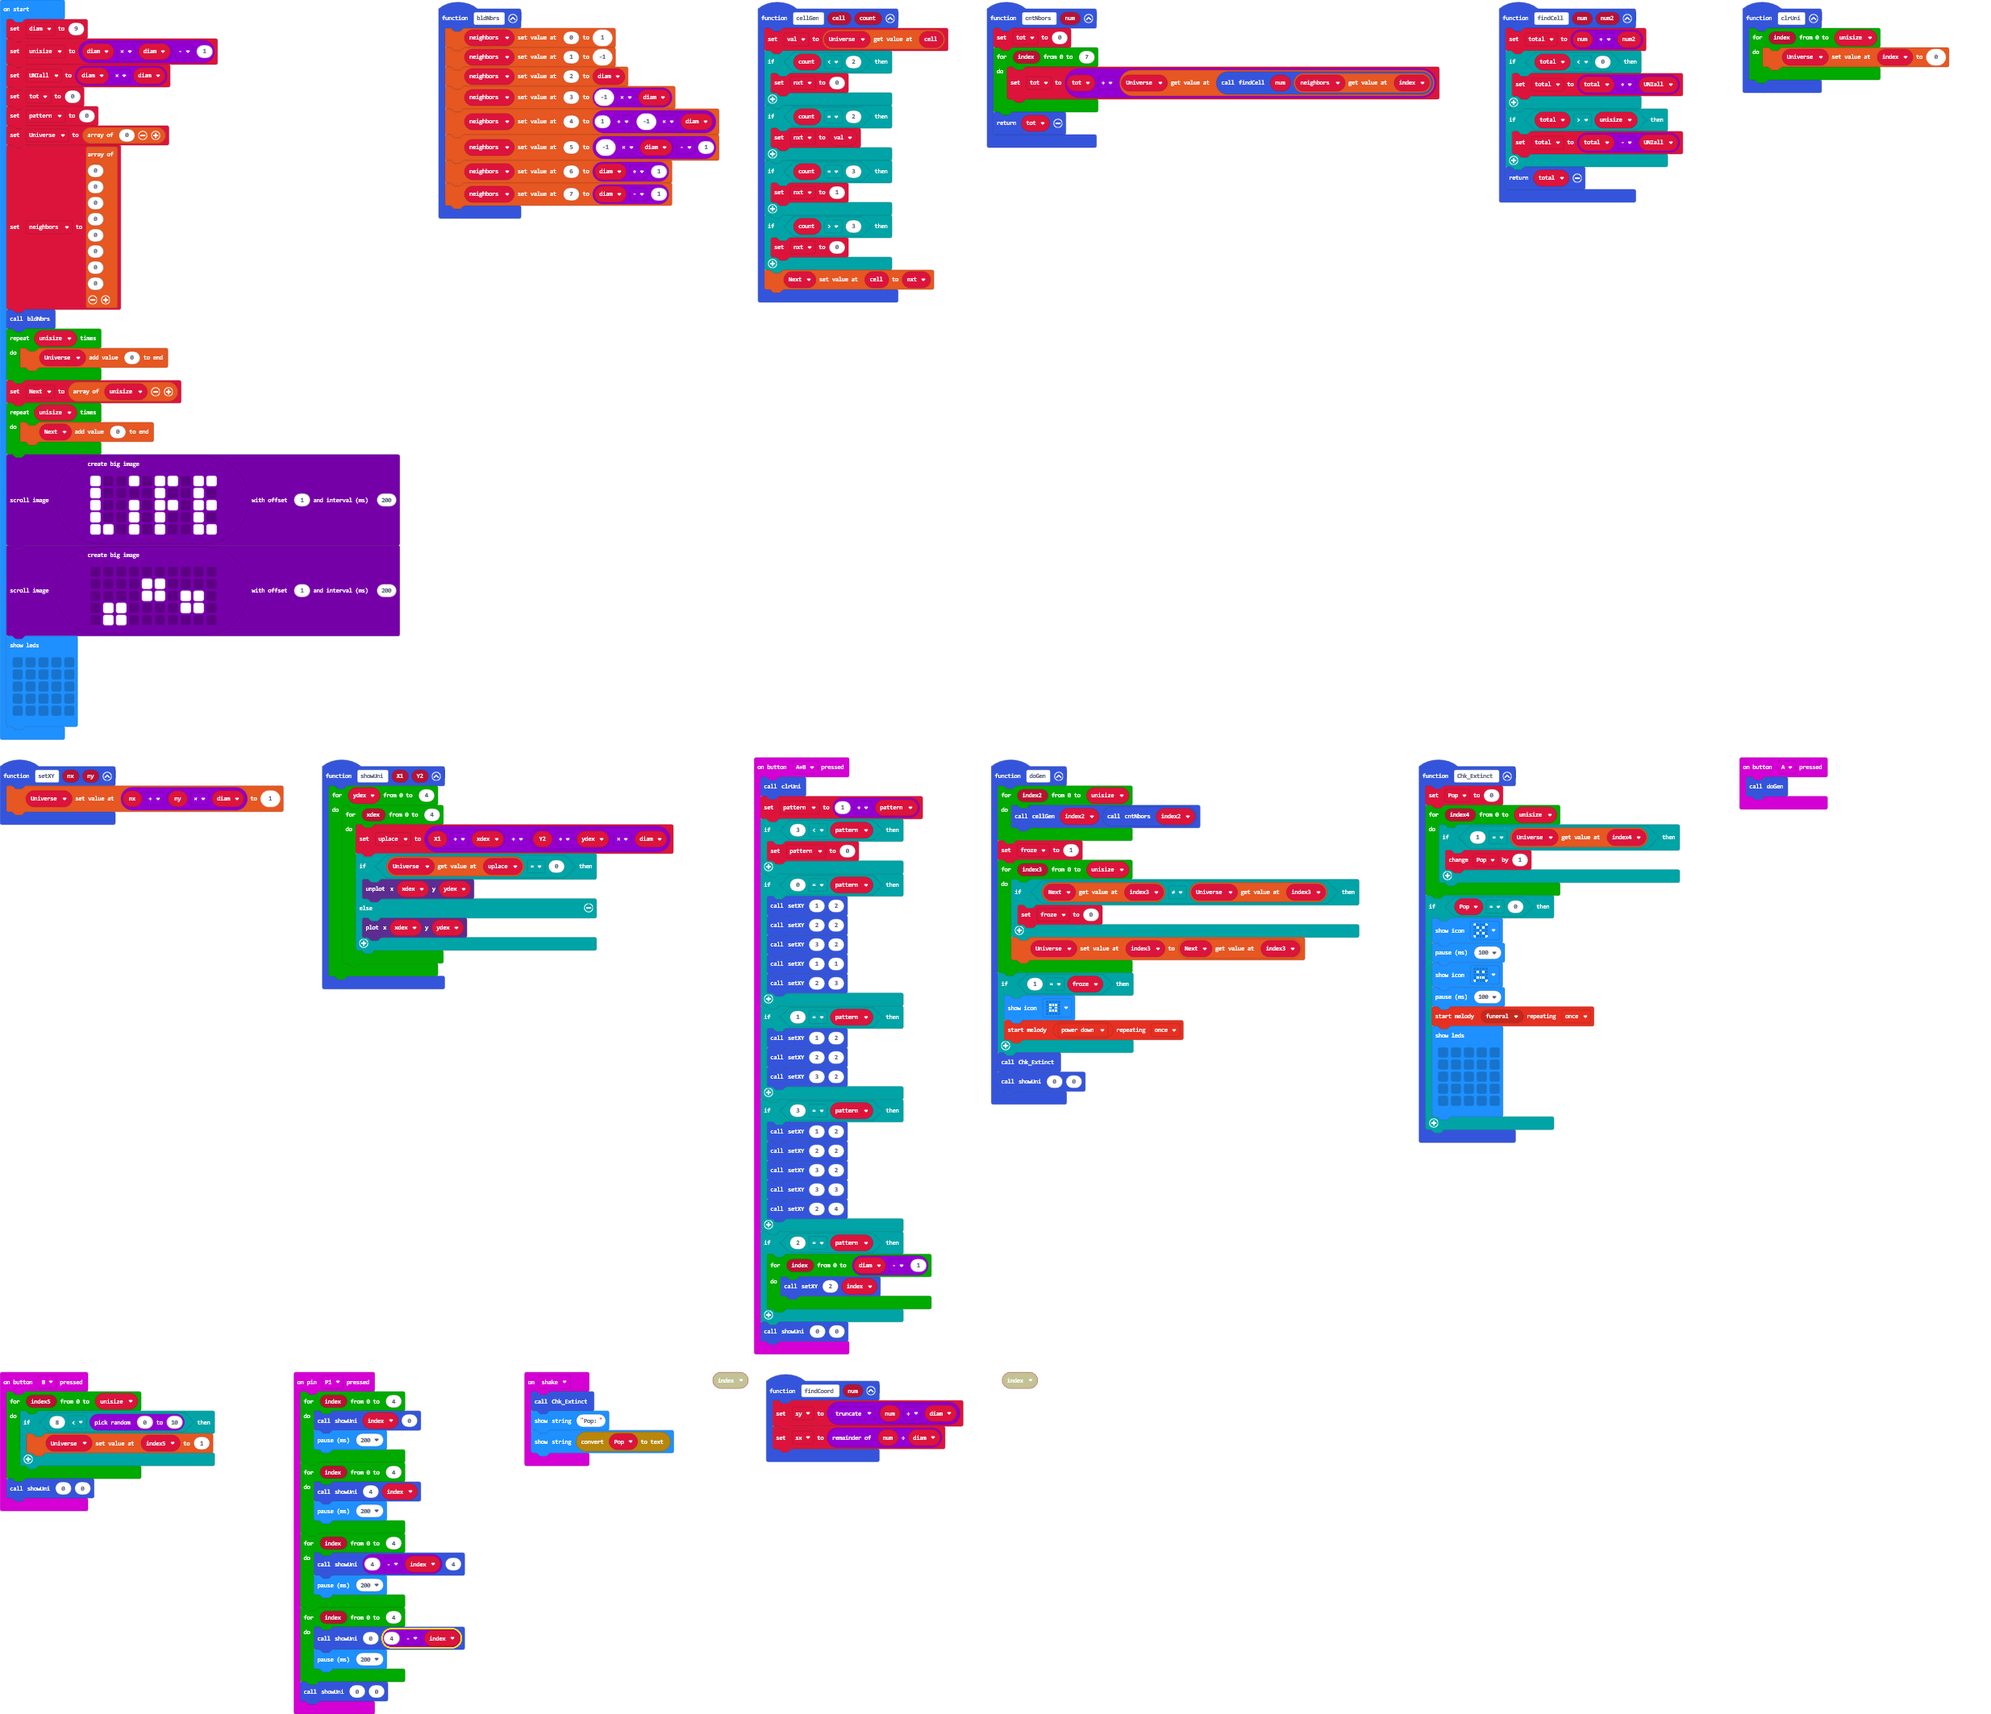
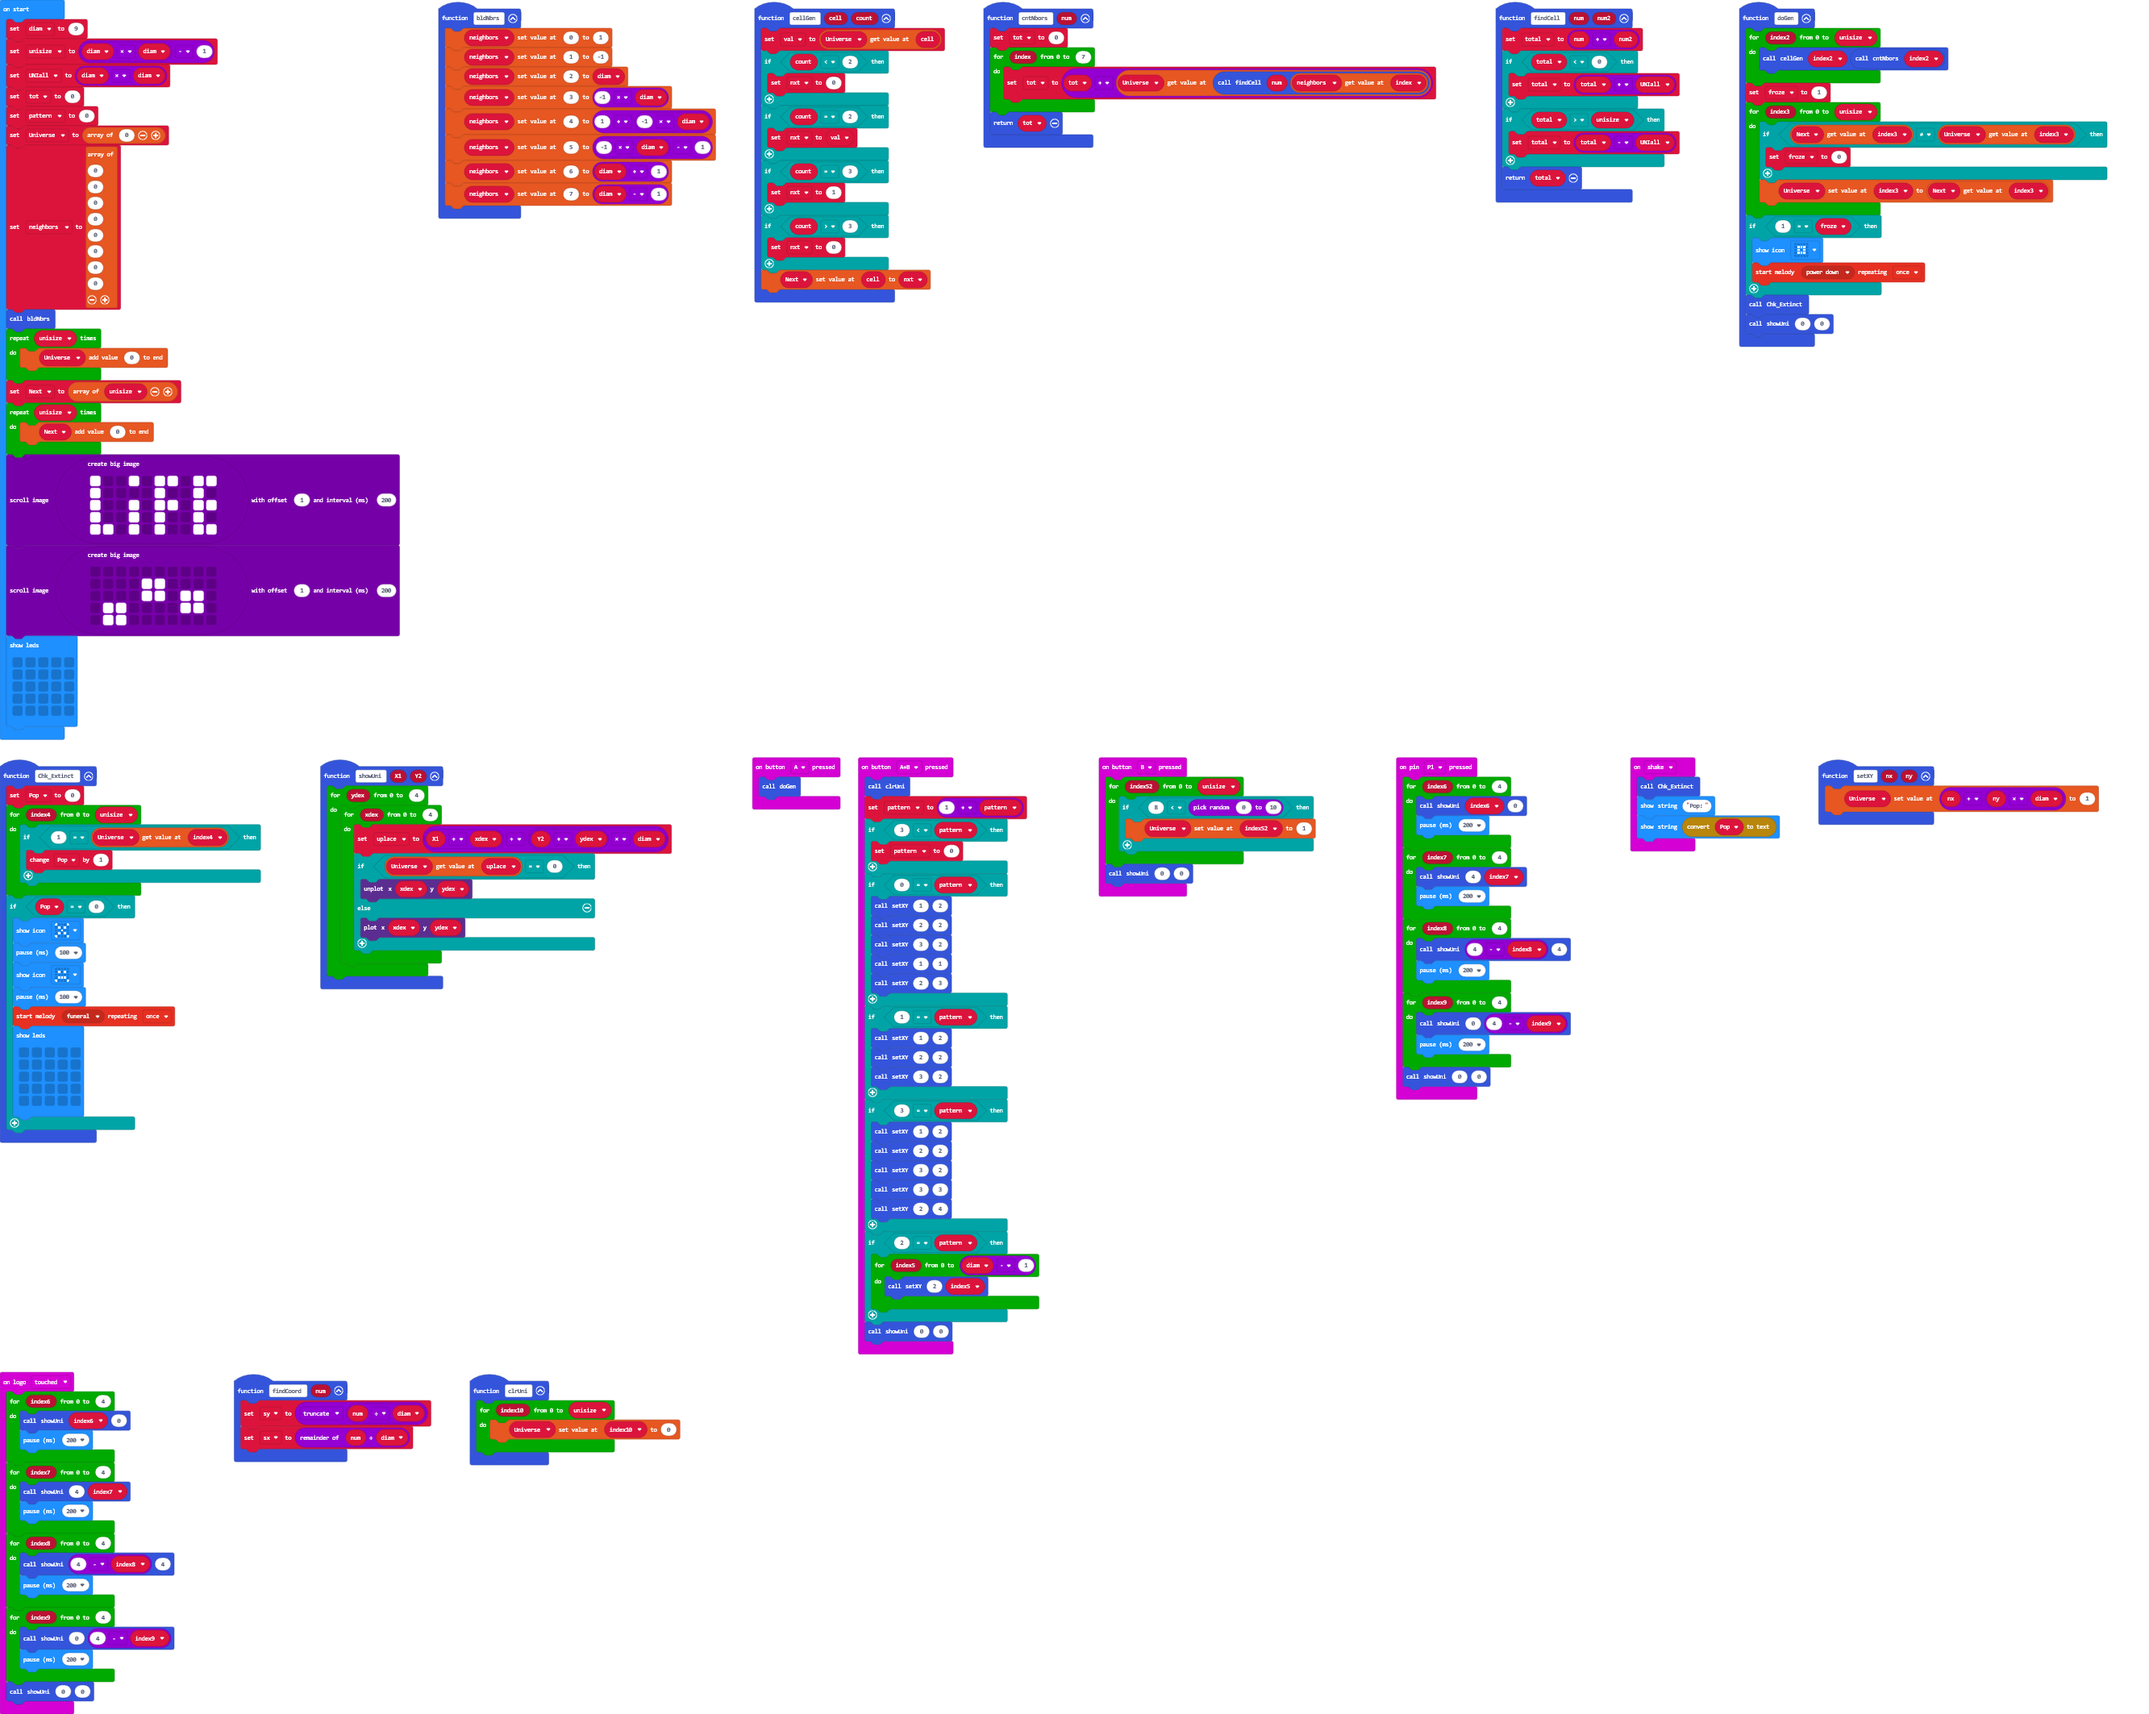
Update main.blocks, main.ts

diff --git a/main.ts b/main.ts
@@ -122,35 +122,35 @@ input.onButtonPressed(Button.AB, function () {
         setXY(2, 4)
     }
     if (2 == pattern) {
-        for (let index = 0; index <= diam - 1; index++) {
-            setXY(2, index)
+        for (let index5 = 0; index5 <= diam - 1; index5++) {
+            setXY(2, index5)
         }
     }
     showUni(0, 0)
 })
 input.onButtonPressed(Button.B, function () {
-    for (let index5 = 0; index5 <= unisize; index5++) {
+    for (let index52 = 0; index52 <= unisize; index52++) {
         if (8 < randint(0, 10)) {
-            Universe[index5] = 1
+            Universe[index52] = 1
         }
     }
     showUni(0, 0)
 })
 input.onPinPressed(TouchPin.P1, function () {
-    for (let index = 0; index <= 4; index++) {
-        showUni(index, 0)
+    for (let index6 = 0; index6 <= 4; index6++) {
+        showUni(index6, 0)
         basic.pause(200)
     }
-    for (let index = 0; index <= 4; index++) {
-        showUni(4, index)
+    for (let index7 = 0; index7 <= 4; index7++) {
+        showUni(4, index7)
         basic.pause(200)
     }
-    for (let index = 0; index <= 4; index++) {
-        showUni(4 - index, 4)
+    for (let index8 = 0; index8 <= 4; index8++) {
+        showUni(4 - index8, 4)
         basic.pause(200)
     }
-    for (let index = 0; index <= 4; index++) {
-        showUni(0, 4 - index)
+    for (let index9 = 0; index9 <= 4; index9++) {
+        showUni(0, 4 - index9)
         basic.pause(200)
     }
     showUni(0, 0)
@@ -163,13 +163,32 @@ input.onGesture(Gesture.Shake, function () {
 function setXY (nx: number, ny: number) {
     Universe[nx + ny * diam] = 1
 }
+input.onLogoEvent(TouchButtonEvent.Touched, function () {
+    for (let index6 = 0; index6 <= 4; index6++) {
+        showUni(index6, 0)
+        basic.pause(200)
+    }
+    for (let index7 = 0; index7 <= 4; index7++) {
+        showUni(4, index7)
+        basic.pause(200)
+    }
+    for (let index8 = 0; index8 <= 4; index8++) {
+        showUni(4 - index8, 4)
+        basic.pause(200)
+    }
+    for (let index9 = 0; index9 <= 4; index9++) {
+        showUni(0, 4 - index9)
+        basic.pause(200)
+    }
+    showUni(0, 0)
+})
 function findCoord (num: number) {
     sy = Math.trunc(num / diam)
     sx = num % diam
 }
 function clrUni () {
-    for (let index = 0; index <= unisize; index++) {
-        Universe[index] = 0
+    for (let index10 = 0; index10 <= unisize; index10++) {
+        Universe[index10] = 0
     }
 }
 let sx = 0
